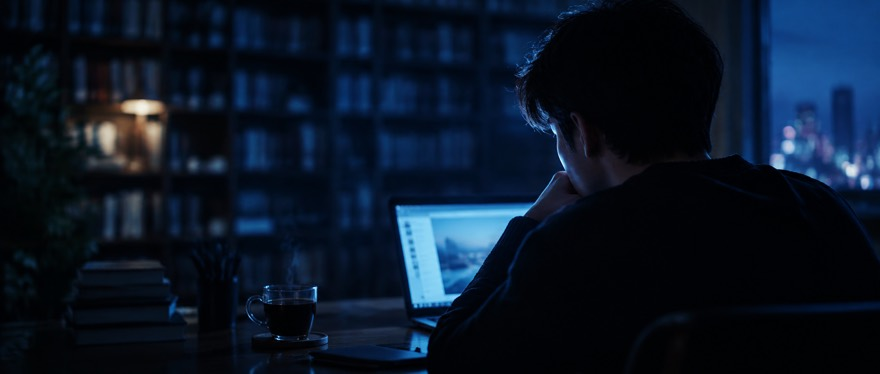
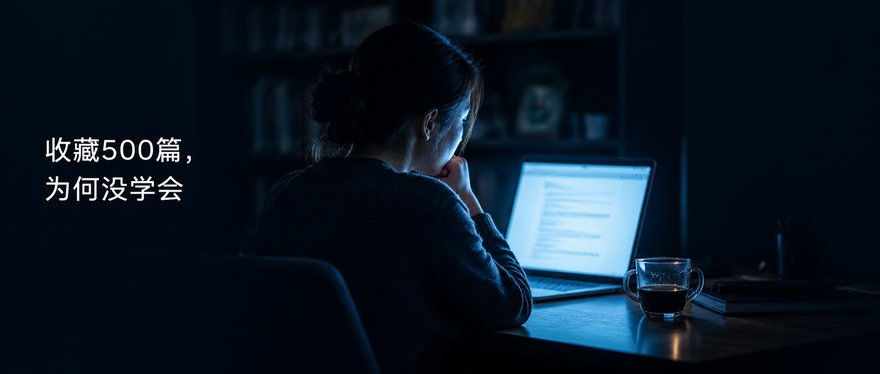
feat: 重做封面/信息图案例与 README hero
- 三张封面按新规则重出：主体全部落在中心 1:1 安全区，带标题交付；A、C 走底图 + HTML 排版叠字（附源文件），B 模型直出
- 信息图改为带字的阶梯式成品，文字逐字校对
- hero 换成带项目名的品牌横幅，删除未引用的 hero.png
- 排版叠字截图命令补 --channel chrome（实测 playwright 自带浏览器未安装时原命令会失败）

diff --git a/showcase/xiaoma-gen-cover/cover-A.html b/showcase/xiaoma-gen-cover/cover-A.html
@@ -1,0 +1,10 @@
+<!doctype html><meta charset="utf-8">
+<style>
+  html,body{margin:0}
+  body{width:1920px;height:816px;background:url(base-A.jpg) center/cover no-repeat;position:relative;
+       font-family:"PingFang SC","Noto Sans SC","Source Han Sans SC",sans-serif}
+  h1{position:absolute;left:96px;top:50%;transform:translateY(-50%);margin:0;
+     font-size:82px;line-height:1.22;font-weight:800;color:#1f2321;letter-spacing:-1px}
+  h1 em{font-style:normal;color:#e8542a}
+</style>
+<h1>收藏<em>500</em>篇，<br>为何没学会</h1>

diff --git a/showcase/xiaoma-gen-cover/cover-C.html b/showcase/xiaoma-gen-cover/cover-C.html
@@ -1,0 +1,10 @@
+<!doctype html><meta charset="utf-8">
+<style>
+  html,body{margin:0}
+  body{width:1920px;height:816px;background:url(base-C.jpg) center/cover no-repeat;position:relative;
+       font-family:"PingFang SC","Noto Sans SC","Source Han Sans SC",sans-serif}
+  h1{position:absolute;left:96px;top:50%;transform:translateY(-50%);margin:0;
+     font-size:82px;line-height:1.22;font-weight:800;color:#1f2321;letter-spacing:-1px}
+  h1 em{font-style:normal;color:#e8542a}
+</style>
+<h1>收藏<em>500</em>篇，<br>为何没学会</h1>

diff --git a/showcase/xiaoma-gen-cover/README.md b/showcase/xiaoma-gen-cover/README.md
@@ -1,0 +1,27 @@
+# gen-cover 案例：《为什么你收藏了 500 篇教程，还是什么都没学会》
+
+同一篇文章三个创意方向，公众号 2.35:1，主体都在中心 1:1 安全区内，标题上图后交付。
+
+| 方向 | 成品 | 出字方式 |
+|---|---|---|
+| A 直接冲击 | [cover-A-direct.jpg](cover-A-direct.jpg) | 底图 [base-A.jpg](base-A.jpg) + [cover-A.html](cover-A.html) 排版叠字截图（模型直出两次，标题都伸进了中心安全区） |
+| B 氛围 | [cover-B-atmos.jpg](cover-B-atmos.jpg) | 模型直出，逐字校对通过 |
+| C 信息可视化 | [cover-C-infoviz.jpg](cover-C-infoviz.jpg) | 底图 [base-C.jpg](base-C.jpg) + [cover-C.html](cover-C.html) 排版叠字截图 |
+
+## 底图提示词 A
+
+```
+扁平设计风格的公众号封面，2.35:1 超宽横幅。画面正中的正方形区域内（只占画面中间约 40% 宽度）：一部竖立的智能手机轮廓，屏幕里塞满层层叠叠的书签图标，越堆越高、开始倾斜，顶上三枚书签正在掉出屏幕，下落轨迹用虚线表示。米白纸张底色，深炭黑图形，只有掉落的书签用橘红色。画面左侧 30% 完全留白，只有干净的纸张底色。右侧留白带保持干净。no text, no letters, no words, no numbers, 几何极简，大量留白，2.35:1 aspect ratio
+```
+
+## 底图提示词 C
+
+```
+信息可视化风格的公众号封面，2.35:1 超宽横幅。画面正中的正方形区域内（只占画面中间约 40% 宽度）：一个简洁的几何漏斗，上方大量密集的深灰小书签图标倒进漏斗，漏斗底部只滴出一颗发光的橘红色小圆点。米白底色，深灰线条，橘红色只用在那颗圆点上。画面左侧 30% 完全留白，只有干净的纸张底色。no text, no letters, no words, no numbers, flat geometric, clean infographic style, 2.35:1 aspect ratio
+```
+
+## 提示词 B（模型直出）
+
+```
+电影感氛围摄影风格的公众号封面，2.35:1 超宽横幅。画面正中的正方形区域内（只占画面中间约 40% 宽度）：深夜书桌前一个人的侧背影，笔记本电脑屏幕的冷光照亮侧脸，桌上一杯凉掉的咖啡，背后书架虚化成暗色块。蓝调冷色温，屏幕光为唯一主光源，柔和景深，安静略带失落。左侧是幽暗干净的暗部留白带，里面两行白色细字重无衬线标题，左对齐："收藏500篇，" 第二行 "为何没学会"。右侧暗部保持干净。render all text exactly as written, no other text, cinematic lighting, shallow depth of field, 2.35:1 aspect ratio
+```

diff --git a/README.md b/README.md
@@ -146,18 +146,18 @@
 知识拆解 4–6 模块 → 五大布局（阶梯/对比/因果/辐射/时间轴）→ 图上文案 → 结构化提示词包。生成失败时，提示词包本身就是交付物。
 
 <p><img src="docs/readme-assets/gen-infographic.jpg" width="45%" alt="infographic"/></p>
-<p><sub>"收藏 ≠ 学习" · 三段式布局 + 对比结构</sub></p>
+<p><sub>"收藏≠学会" · 阶梯式布局，图上文字模型直出、逐字校对 · <a href="showcase/xiaoma-gen-infographic/">提示词</a></sub></p>
 
 ### xiaoma-gen-cover · 文章封面
 
-三创意方向（直接冲击 / 氛围 / 信息可视化）各出一稿，平台规格锁定，缩略图安全区检查，留白保证标题可叠。
+三创意方向（直接冲击 / 氛围 / 信息可视化）各出一稿，平台规格锁定，主体必须落在缩略图安全区内，交付带标题的成品——短标题模型直出，位置要求严格时走底图 + 排版叠字。
 
 <p>
   <img src="docs/readme-assets/cover-a.jpg" width="32%" alt="direct"/>
   <img src="docs/readme-assets/cover-b.jpg" width="32%" alt="atmos"/>
   <img src="docs/readme-assets/cover-c.jpg" width="32%" alt="infoviz"/>
 </p>
-<p><sub>同一篇文章的三个创意方向：A 直接冲击 · B 氛围 · C 信息可视化</sub></p>
+<p><sub>同一篇文章的三个创意方向：A 直接冲击 · B 氛围 · C 信息可视化（A、C 为底图 + 排版叠字，<a href="showcase/xiaoma-gen-cover/">看源文件</a>）</sub></p>
 
 ### xiaoma-gen-video · 视频生成编排
 

diff --git a/showcase/xiaoma-gen-infographic/README.md b/showcase/xiaoma-gen-infographic/README.md
@@ -1,0 +1,18 @@
+# gen-infographic 案例：收藏≠学会
+
+阶梯式布局，3:4。图上 5 段文字（标题、副标题、3 个模块小标题）全部由模型直出，逐字校对通过；第一版标题旁有污渍，按规则重出一次。
+
+![](infographic-01.jpg)
+
+## 提示词
+
+```
+竖版知识信息图，3:4，阶梯式布局，米白纸纹理底色，深炭黑扁平图形，橘红色作唯一强调色，充足留白，编辑设计感。
+顶部：超大粗黑无衬线标题 "收藏≠学会"，其中 "≠" 为橘红色；标题下方一行小号深灰副标题 "500篇收藏为什么没用"。
+下方三个从上到下的台阶模块，每个模块左边一个橘红圆形序号，右边一个简洁图标和一行粗体小标题：
+模块1 图标是一个对话气泡，小标题 "讲不清就别存"；
+模块2 图标是一个垃圾桶，小标题 "删到只剩10条"；
+模块3 图标是一支笔，小标题 "输出才算学会"。
+模块之间用橘红色向下箭头连接。render all text exactly as written, no other text, 3:4 aspect ratio
+背景干净无污渍。
+```

diff --git a/shared/visual-prompts.md b/shared/visual-prompts.md
@@ -29,7 +29,7 @@
 **B. 底图 + 排版叠字（长文字、密集数据、或 A 校对不过）**
 1. 生图只出底图（`no text`），按版式给文字留好空位
 2. 写一个同尺寸 HTML：底图作背景，文字层绝对定位（字体、字号、颜色在 HTML 里定）
-3. 无头浏览器截图导出 PNG，例如 `npx playwright screenshot --viewport-size "1280, 544" file://$PWD/cover.html cover.png`
+3. 无头浏览器截图导出 PNG，例如 `npx playwright screenshot --channel chrome --viewport-size "1280, 544" file://$PWD/cover.html cover.png`（`--channel chrome` 直接用本机 Chrome；没装 Chrome 就先 `npx playwright install chromium` 再去掉这个参数）
 4. 截图就是交付物；HTML 一并存档，改字不用重新生图
 
 视频画面一律不写字（视频模型逐帧写字必乱），文字放后期字幕。
